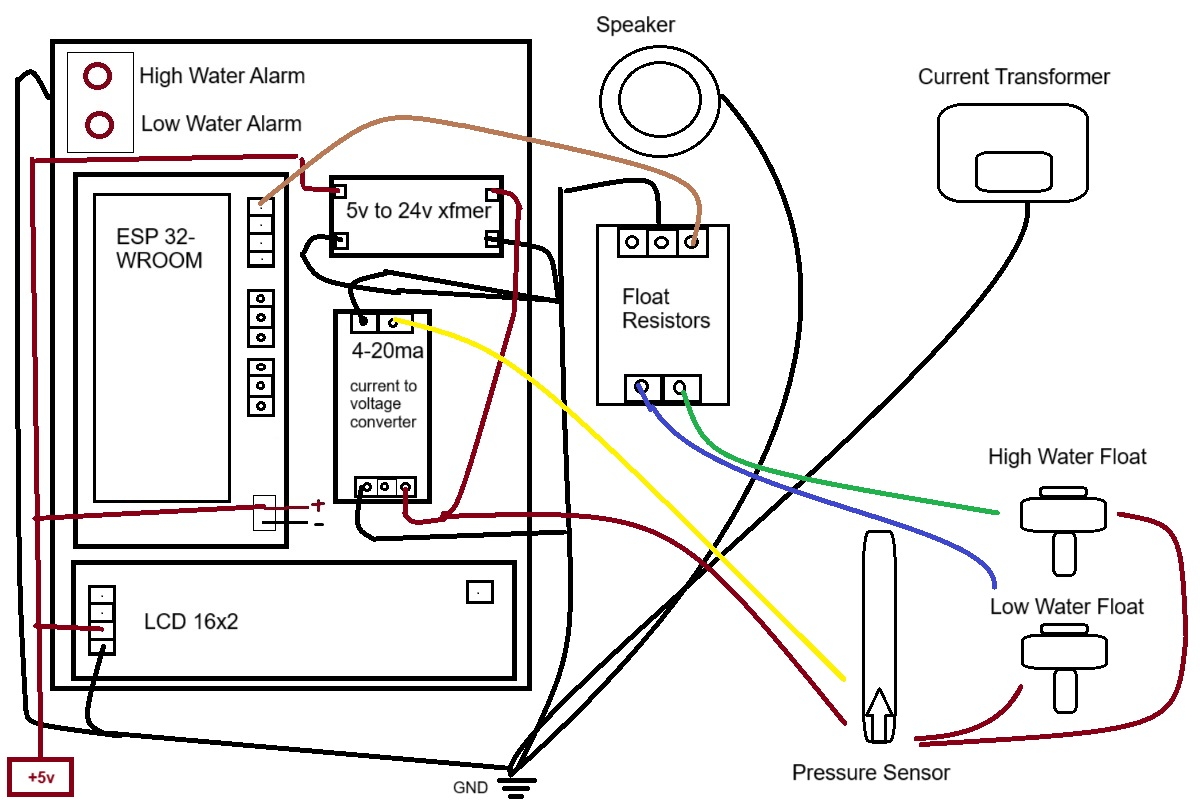
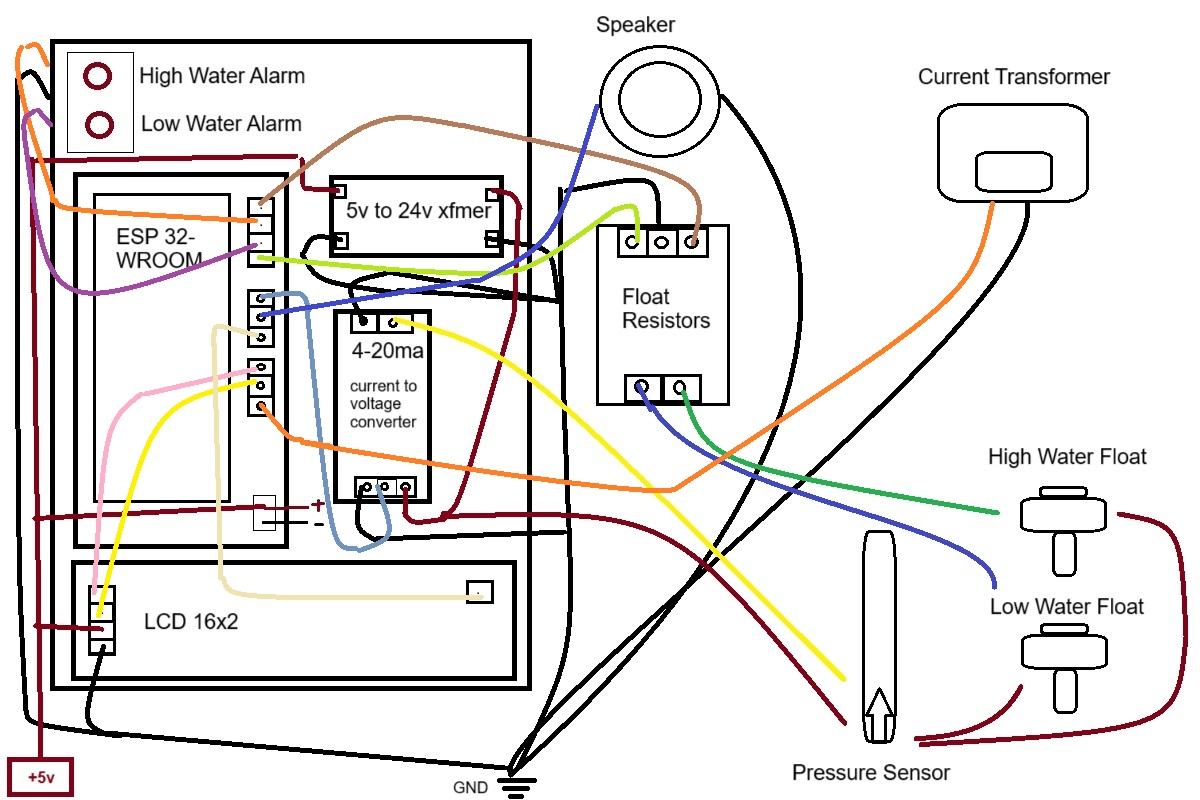
update wiring diagram

diff --git a/README.md b/README.md
@@ -5,6 +5,11 @@ Uses several sensors measure the water level of a cistern and current draw from 
 2) Float Switch (https://www.amazon.com/gp/product/B095HMXX6G)
 3) Current Transformer (https://www.amazon.com/gp/product/B07XYRCSHB)
 
+![Cistern Monitor Cardboard Prototype](proto-cardboard.jpg)
+
+![Cistern Monitor Layout](bread-board-layout-power-supply-wiring-and-jst.jpg)
+
+
 FEATURES:
  - High Water Float sensor (cistern overflow alarm)
  - Low Water Float sensor (irrigation pump shutoff and alarm)
